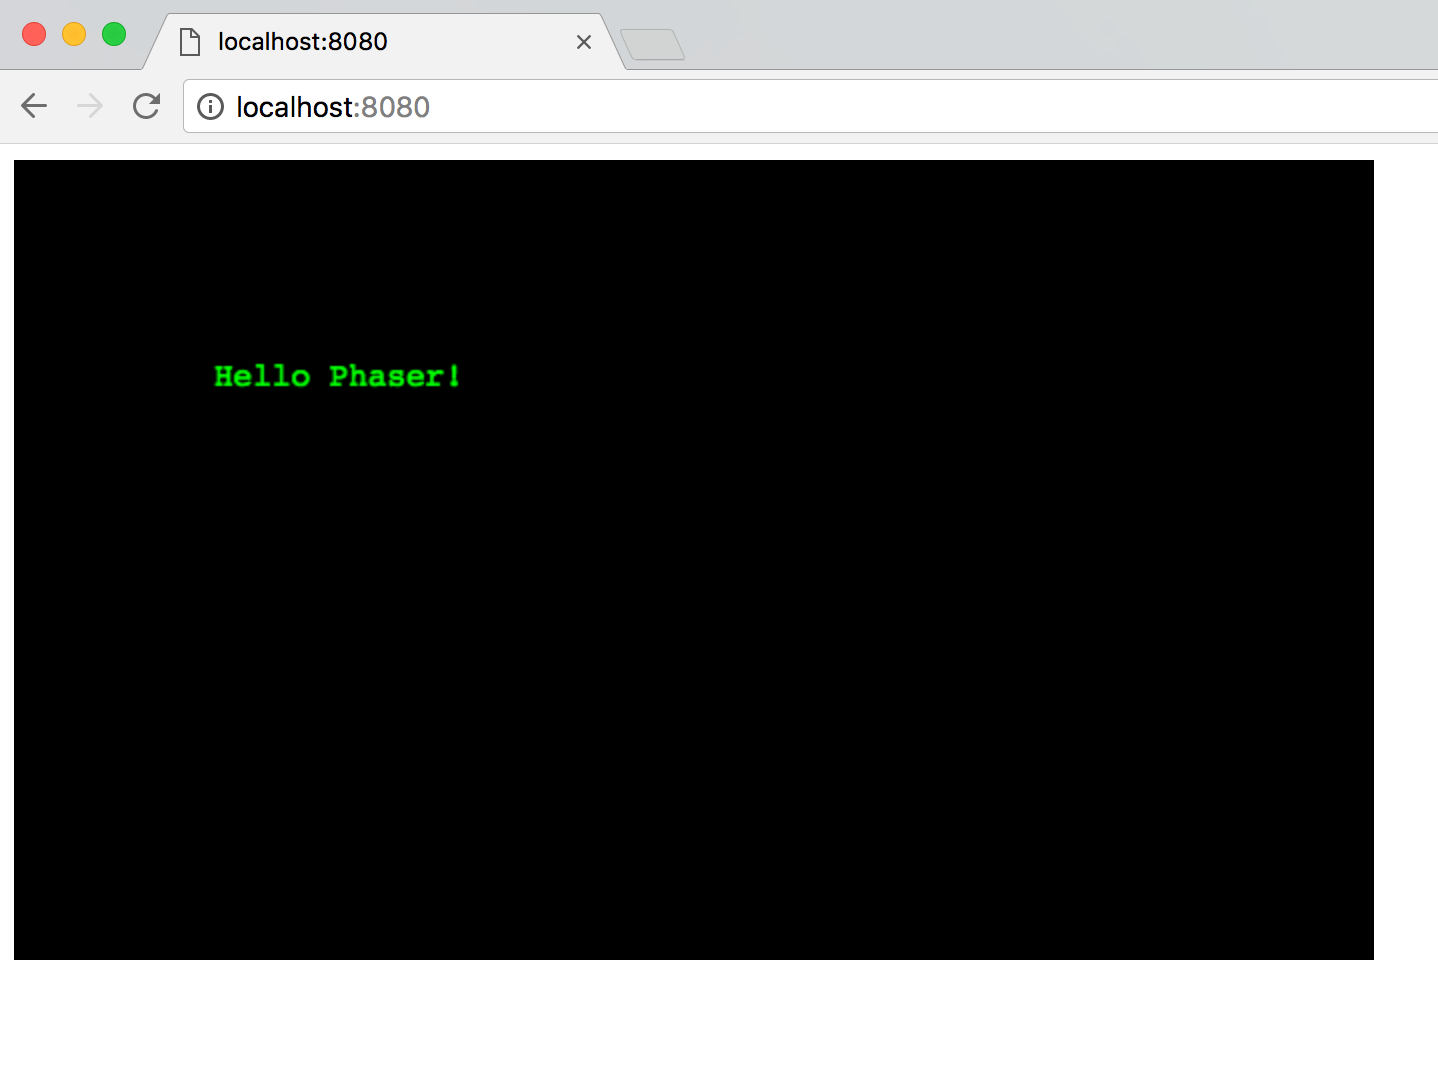
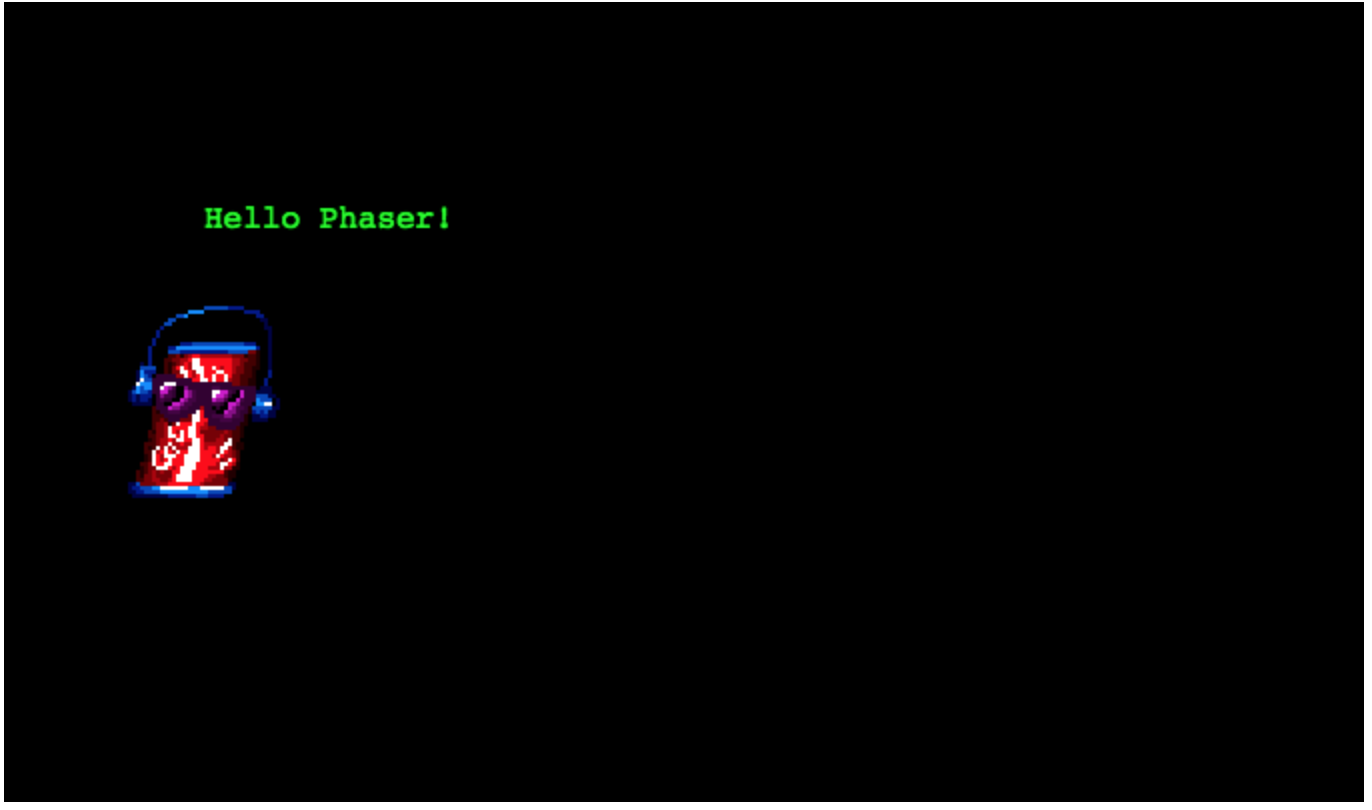
hover and active states

Changed region(s): [[0.0, 0.0, 1.0, 1.0], [0.0918, 0.3395, 0.3367, 0.6173], [0.1531, 0.2469, 0.3367, 0.3086]]

diff --git a/_drafts/buttons-in-phaser-3.md b/_drafts/buttons-in-phaser-3.md
@@ -1,32 +1,32 @@
 # Buttons in Phaser 3
 
-Phaser 2 had buttons, but they aren't built-in to Phaser 3. Thankfully, they are simple to make on our own. In this tutorial we'll go over the basics of what a button is in Phaser-land and a couple of different ways to make them.
+Phaser 2 had buttons but they aren't built-in to Phaser 3. Thankfully, they are simple to make on our own. In this tutorial we'll go over the basics of what a button is in Phaser-land and a couple of different ways to make them.
 
 ## Buttons Aren't Scary
 
-Buttons aren't some magic black box of mystery. At its core concept, a button is something that the player can click on which then calls some function we've written.
+Buttons aren't some magic black box of mystery. At its core concept a button is something that responds to clicks.
 
 That's it.
 
-Hover states, animations, fancy effects, whatever, are just icing on the cake. Phaser makes it really easy to make something clickable, so let's start with buildling that.
+Hover states, animations, fancy effects, whatever, are just icing on the cake. Phaser makes it really easy to make something clickable, so let's start with building that.
 
 ## Project Set Up
 
-I'll be using the project setup from [this blog post](https://snowbillr.github.io/blog/2018-04-09-a-modern-web-development-setup-for-phaser-3/). You can follow through that post to set up the project yourself, or you can clone the full setup [from GitHub](https://github.com/snowbillr/phaser3-webpack-es6-dev-starter) and follow the instructions in it's README.
+I'll be using the project setup from [this blog post](https://snowbillr.github.io/blog/2018-04-09-a-modern-web-development-setup-for-phaser-3/). You can follow through that post to set up the project yourself, or you can clone the full setup [from GitHub](https://github.com/snowbillr/phaser3-webpack-es6-dev-starter) and follow the instructions in its README.
 
-Once you have the project running, you should see something like this in your browser:
+Once you have the project running you should see something like this in your browser:
 
 ![browser initial setup](/blog/img/posts/buttons-in-phaser-3/browser-initial-setup.png)
 
 ## The Most Basic Button
 
-Lucky for us our project already has taken care of the first part of our most basic button. That ugly green text on that ugly black background? Looks like a perfect candidate for the most basic button we can make.
+Lucky for us our project already has taken care of the first part of our most basic button. That ugly green text on that ugly black background? Looks like a perfect candidate for an ugly button!.
 
 The ugly green text is an instance of `Phaser.GameObjects.Text` which extends the `Phaser.GameObjects.GameObject` class. Everything that gets added to our scene is an instance of `GameObject`, and this is the class that provides us with the method we need to make our text (or our image, or sprite, or any other `GameObject`) clickable.
 
 We need tell Phaser that we want our player to be able to interact with our `GameObject`. [I wonder what method we should call on GameObject.](https://github.com/photonstorm/phaser/blob/v3.3.0/src/gameobjects/GameObject.js#L262).
 
-Great guess! It *is* the `setInteractive` method. Don't worry about any of the arguments to the method for now. If we call that method on our text with no parameters, it will make the rectangular bounds of our text interactive, which is exactly what we want. So let's do that in `scenes/simple-scene.js`. We'll also keep a reference to our text object in a variable so we have access to it later.
+Great guess! It *is* the `setInteractive` method. Don't worry about any of the arguments to the method for now. If we call that method on our text with no parameters, it will make the rectangular bounds of our text interactive, which is exactly what we want. So let's do that in `scenes/simple-scene.js`. We'll also keep a reference to our text object in a variable so we have access to it later. Since we don't need the coke can sprite, we can remove that as well.
 
 ```javascript
 export class SimpleScene extends Phaser.Scene {
@@ -37,14 +37,14 @@ export class SimpleScene extends Phaser.Scene {
 }
 ```
 
-Great! But it doesn't seem like anything has changed in our browser. We can check that it is by listening to events that are emitted from our text object by adding event listeners. When we tell Phaser a `GameObject` is interactive, it will start to emit events whenever any player interaction occurs with that `GameObject`. These events are emitted in two ways:
+Great! But it doesn't seem like anything has changed in our browser. We can check that our text is interactive by adding event listeners to it. When we tell Phaser a `GameObject` is interactive it will start to emit events whenever any player interaction occurs with that `GameObject`. These events are emitted in two ways:
 
 1. Directly from the `GameObject` itself
 1. From the `InputPlugin` object (`this.input` in a scene)
 
 Since we only care about interaction events on our `GameObject` and not for the scene in general, we'll only listen to events coming directly from our text and ignore those coming from the `InputPlugin`.
 
-To verify that we are actually getting events, let's log them as they get emitted. The events we care about are `pointerover`, `pointerout`, `pointerdown`, and `pointerup`. The full list of events can be found by browsing [the `InputPlugin`s source code](https://github.com/photonstorm/phaser/blob/master/src/input/InputPlugin.js). Just use your browser to search for "emit(" on that page.
+All `GameObject`s extend from [EventEmitter3](https://github.com/primus/eventemitter3), so we can listen for the input events directly on the `GameObject` with the [`on`](https://nodejs.org/api/events.html#events_emitter_on_eventname_listener) method. Let's verify our text is actually emitting the input events by listening for the `pointerover` event, which is fired when the cursor first overlaps with the game object.
 
 ```javascript
 export class SimpleScene extends Phaser.Scene {
@@ -52,14 +52,116 @@ export class SimpleScene extends Phaser.Scene {
     const helloButton = this.add.text(100, 100, 'Hello Phaser!', { fill: '#0f0' });
     helloButton.setInteractive();
 
-    helloButton.on('pointerover', () => console.log('pointerover'));
-    helloButton.on('pointerdown', () => console.log('pointerdown'));
-    helloButton.on('pointerup', () => console.log('pointerup'));
-    helloButton.on('pointerout', () => console.log('pointerout'));
+    helloButton.on('pointerover', () => { console.log('pointerover'); });
   }
 }
 ```
 
-![browser pointer events](/blog/img/posts/buttons-in-phaser-3/browser-pointer-events.gif)
+![browser pointerover event](/blog/img/posts/buttons-in-phaser-3/browser-pointerover-event.gif)
 
-The Most Basic Button™ only cares about when the user clicks on it, so to start we'll only need to listen to the `pointerdown` event. And rather than logging something to the console, let's show an image when we click the button.
+Great, we know our "button" is firing off input events that we can listen for and respond to. The other events that we care about are:
+
+- `pointerout` - this is the opposite of `pointerover`. It fires when the cursor *leaves* the area of the game object.
+- `pointerdown` - this fires at the start of a click or a touch on the game object, literally when the mouse button is pushed down or when a finger touches down.
+- `pointerup` - this is the opposite of `pointerdown`. It fires when the mouse button is released or the finger is lifted up from the game object.
+
+The Most Basic Button™ only cares about when the user clicks on it, so to start we'll only need to listen to the `pointerdown` event. Let's have a click counter that increases everytime we click on our button.
+
+```javascript
+export class SimpleScene extends Phaser.Scene {
+  create() {
+    let clickCount = 0;
+    this.clickCountText = this.add.text(100, 200, '');
+
+    const clickButton = this.add.text(100, 100, 'Click me!', { fill: '#0f0' })
+      .setInteractive()
+      .on('pointerdown', () => this.updateClickCountText(++clickCount) );
+
+    this.updateClickCountText(clickCount);
+  }
+
+  updateClickCountText(clickCount) {
+    this.clickCountText.setText(`Button has been clicked ${clickCount} times.`);
+  }
+}
+```
+
+So there's the Most Basic Button™ that we can possibly make.
+
+## The Slightly More Complicated Button
+
+The Slightly More Complicated Button™ does more than just respond to clicks. Just like a button on a website, this button has a [`hover` state](https://developer.mozilla.org/en-US/docs/Web/CSS/:hover) and an [`active` state](https://developer.mozilla.org/en-US/docs/Web/CSS/:active). These two states give the user an indication of their interaction with the button.
+
+Didn't it feel weird when you moused over The Most Basic Button™ and nothing happened? This is because you were expecting the button to have some kind of hover state. We can detect when a user is hovering over a button with the `pointerover` event, and detect when the user leaves the hover state with the `pointerout` event. Let's have our button change its text color when the user hovers over it. We can add listeners for those two events to change our button's color.
+
+```javascript
+export class SimpleScene extends Phaser.Scene {
+  create() {
+    let clickCount = 0;
+    this.clickCountText = this.add.text(100, 200, '');
+
+    this.clickButton = this.add.text(100, 100, 'Click me!', { fill: '#0f0' })
+     .setInteractive()
+     .on('pointerdown', () => this.updateClickCountText(++clickCount) )
+     .on('pointerover', () => this.enterButtonHoverState() )
+     .on('pointerout', () => this.exitButtonHoverState() );
+
+    this.updateClickCountText(clickCount);
+  }
+
+  updateClickCountText(clickCount) {
+    this.clickCountText.setText(`Button has been clicked ${clickCount} times.`);
+  }
+
+  enterButtonHoverState() {
+    this.clickButton.setStyle({ fill: '#ff0 '});
+  }
+
+  exitButtonHoverState() {
+    this.clickButton.setStyle({ fill: '#0f0' });
+  }
+}
+```
+
+![browser simple hover](/blog/img/posts/buttons-in-phaser-3/browser-simple-hover.gif)
+
+Similarly, our Slightly More Complicated Button™ should have an active state too. We can tell when our button becomes active by listening to the `pointerdown` event. We'll also change our existing listener that updates the counter to run on the `pointerup` event so we can make our button feel like it's correctly transitioning through its states.
+
+```javascript
+export class SimpleScene extends Phaser.Scene {
+  create() {
+    let clickCount = 0;
+    this.clickCountText = this.add.text(100, 200, '');
+
+    this.clickButton = this.add.text(100, 100, 'Click me!', { fill: '#0f0' })
+      .setInteractive()
+      .on('pointerover', () => this.enterButtonHoverState() )
+      .on('pointerout', () => this.exitButtonHoverState() )
+      .on('pointerdown', () => this.enterButtonActiveState() )
+      .on('pointerup', () => {
+        this.updateClickCountText(++clickCount);
+        this.enterButtonHoverState();
+    });
+
+    this.updateClickCountText(clickCount);
+  }
+
+  updateClickCountText(clickCount) {
+    this.clickCountText.setText(`Button has been clicked ${clickCount} times.`);
+  }
+
+  enterButtonHoverState() {
+    this.clickButton.setStyle({ fill: '#ff0 '});
+  }
+
+  exitButtonHoverState() {
+    this.clickButton.setStyle({ fill: '#0f0' });
+  }
+
+  enterButtonActiveState() {
+    this.clickButton.setStyle({ fill: '#0ff' });
+  }
+}
+```
+
+![browser simple hover and active](/blog/img/posts/buttons-in-phaser-3/browser-simple-hover-and-active.gif)
